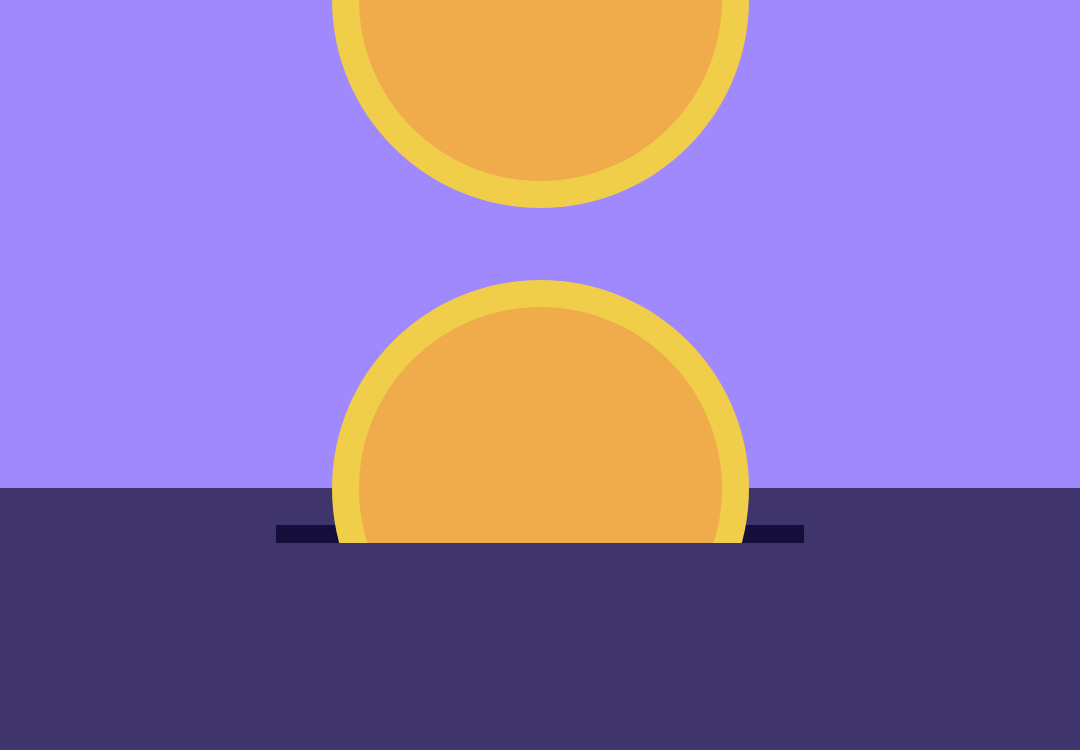
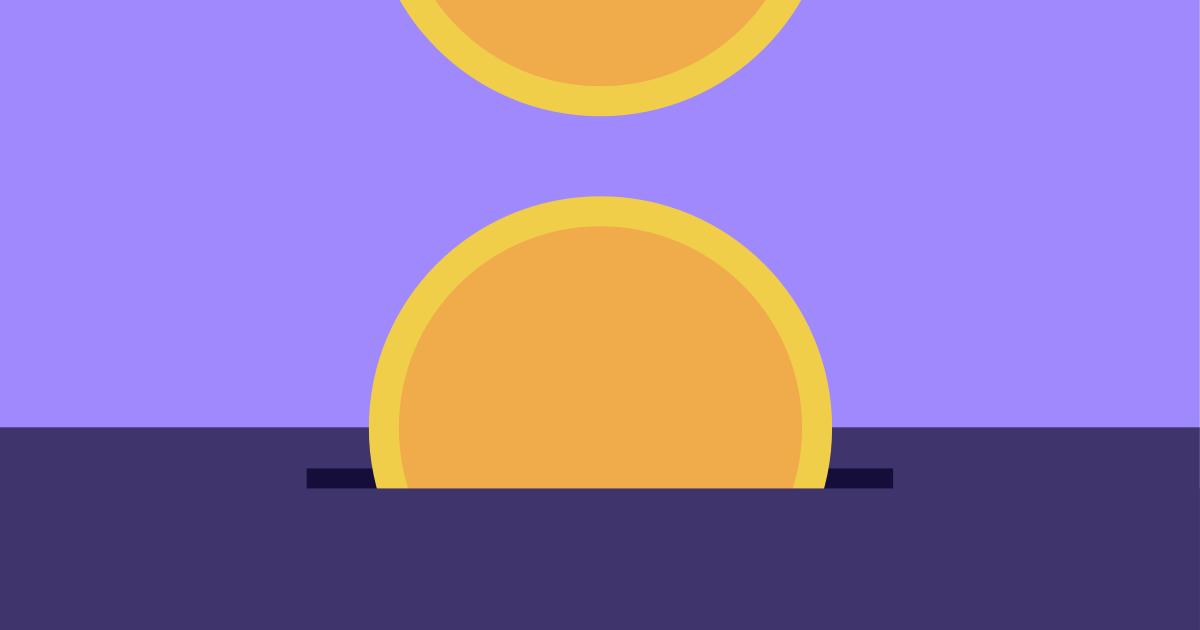
OG images

Changed region(s): [[0.3056, 0.0, 0.7028, 0.5429], [0.0, 0.6333, 1.0, 0.7841]]

diff --git a/public/blog/tricks-to-save-with-your-smartphone.html b/public/blog/tricks-to-save-with-your-smartphone.html
@@ -10,11 +10,11 @@
 
 		<meta property="og:title" content="Tricks to save with your smartphone">
 		<meta property="og:description" content="Financial Fast app for iPhone and Apple Watch. Savings without effort. Download now.">
-		<meta property="og:image" content="https://beltsaving.com/og.png">
+		<meta property="og:image" content="https://beltsaving.com/blog/img/coins_large.png">
 		<meta name="twitter:card" content="summary_large_image">
 		<meta name="twitter:title" content="Tricks to save with your smartphone">
 		<meta name="twitter:description" content="Financial Fast app for iPhone and Apple Watch. Savings without effort. Download now.">
-		<meta name="twitter:image" content="https://beltsaving.com/og.png">
+		<meta name="twitter:image" content="https://beltsaving.com/blog/img/coins_large.png">
 		<!-- Global site tag (gtag.js) - Google Analytics -->
 		<script async src="https://www.googletagmanager.com/gtag/js?id=G-6KGJV961DE"></script>
 		<script>
@@ -37,6 +37,7 @@
 		height: 240px;
 		background-repeat: no-repeat;
 		background-size: cover;
+		background-position: center;
 		background-image: url(img/coins_large.png);
 		width: 100%;
 		text-align: center;

diff --git a/public/blog/ahorro-ilimitado-modo-infinito-belt.html b/public/blog/ahorro-ilimitado-modo-infinito-belt.html
@@ -10,11 +10,11 @@
 
 		<meta property="og:title" content="Ahorro ilimitado con el Modo Infinito">
 		<meta property="og:description" content="Financial Fast app for iPhone and Apple Watch. Savings without effort. Download now.">
-		<meta property="og:image" content="https://beltsaving.com/og.png">
+		<meta property="og:image" content="https://beltsaving.com/blog/img/infinity.png">
 		<meta name="twitter:card" content="summary_large_image">
 		<meta name="twitter:title" content="Ahorro ilimitado con el Modo Infinito">
 		<meta name="twitter:description" content="Financial Fast app for iPhone and Apple Watch. Savings without effort. Download now.">
-		<meta name="twitter:image" content="https://beltsaving.com/og.png">
+		<meta name="twitter:image" content="https://beltsaving.com/blog/img/infinity.png">
 		<!-- Global site tag (gtag.js) - Google Analytics -->
 		<script async src="https://www.googletagmanager.com/gtag/js?id=G-6KGJV961DE"></script>
 		<script>
@@ -37,6 +37,7 @@
 		height: 240px;
 		background-repeat: no-repeat;
 		background-size: cover;
+		background-position: center;
 		background-image: url(img/infinity.png);
 		width: 100%;
 		text-align: center;

diff --git a/public/blog/unlimited-savings-with-belt-infinity-mode.html b/public/blog/unlimited-savings-with-belt-infinity-mode.html
@@ -37,6 +37,7 @@
 		height: 240px;
 		background-repeat: no-repeat;
 		background-size: cover;
+		background-position: center;
 		background-image: url(img/infinity.png);
 		width: 100%;
 		text-align: center;
